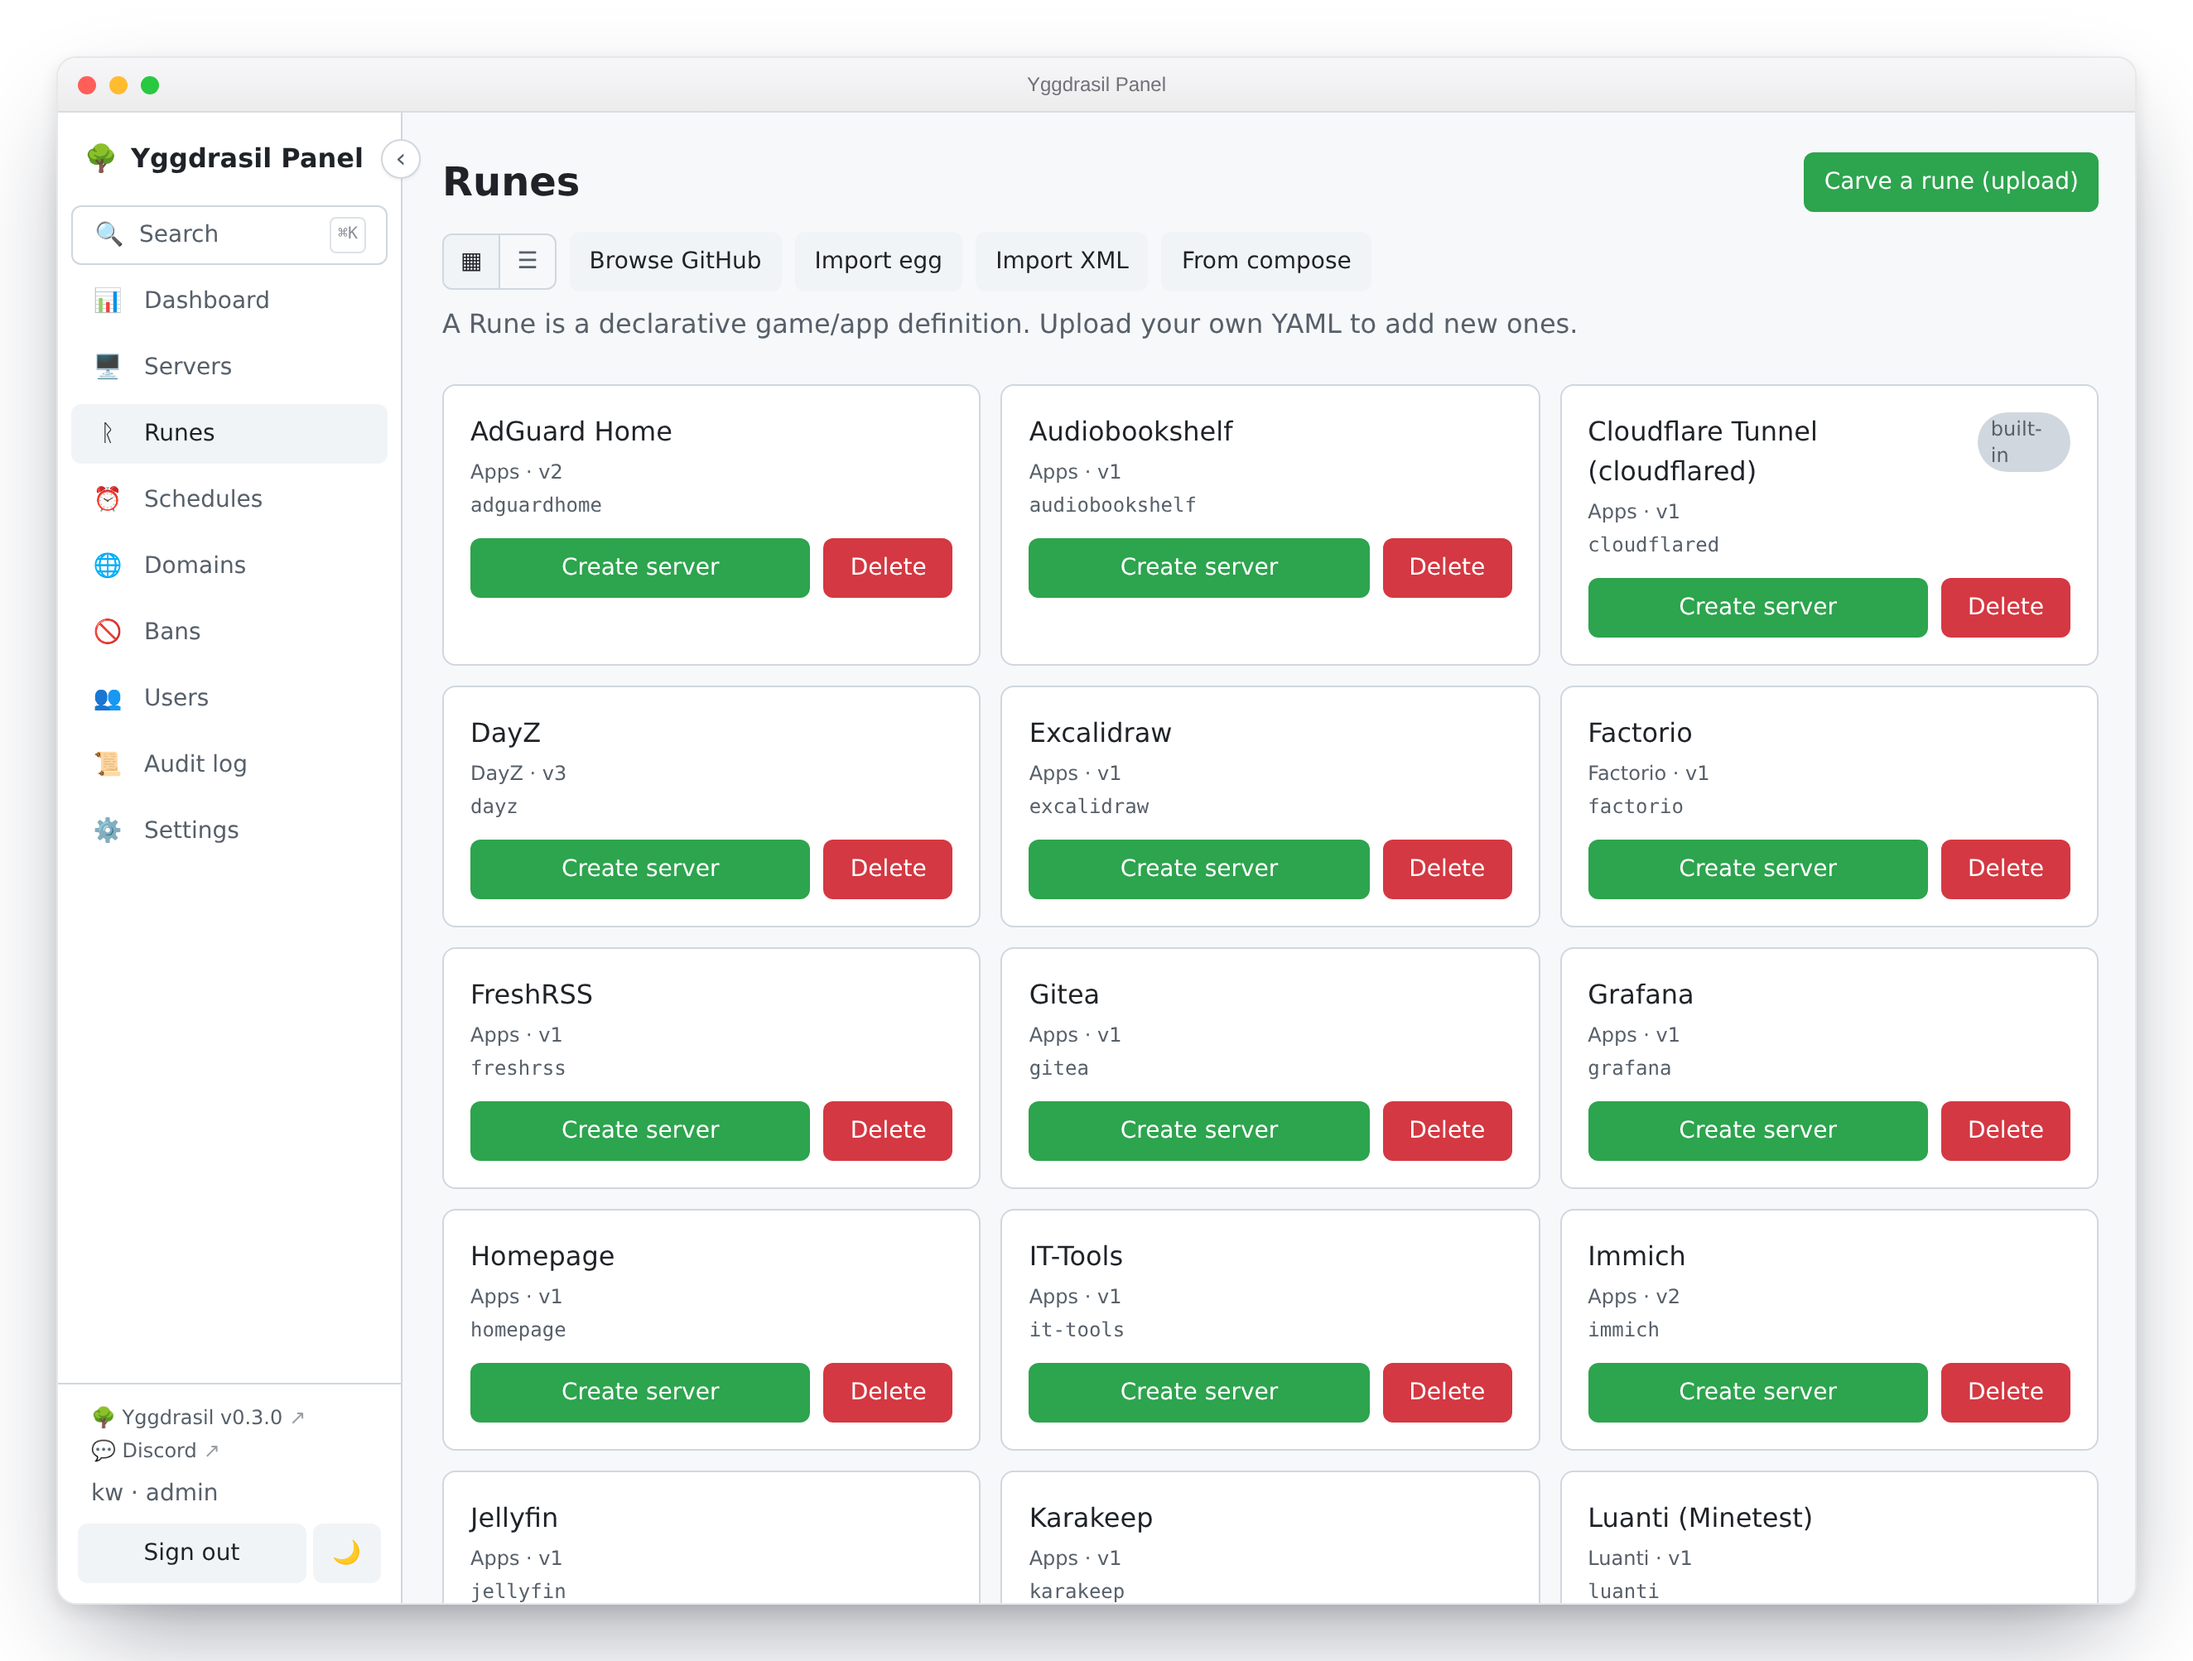
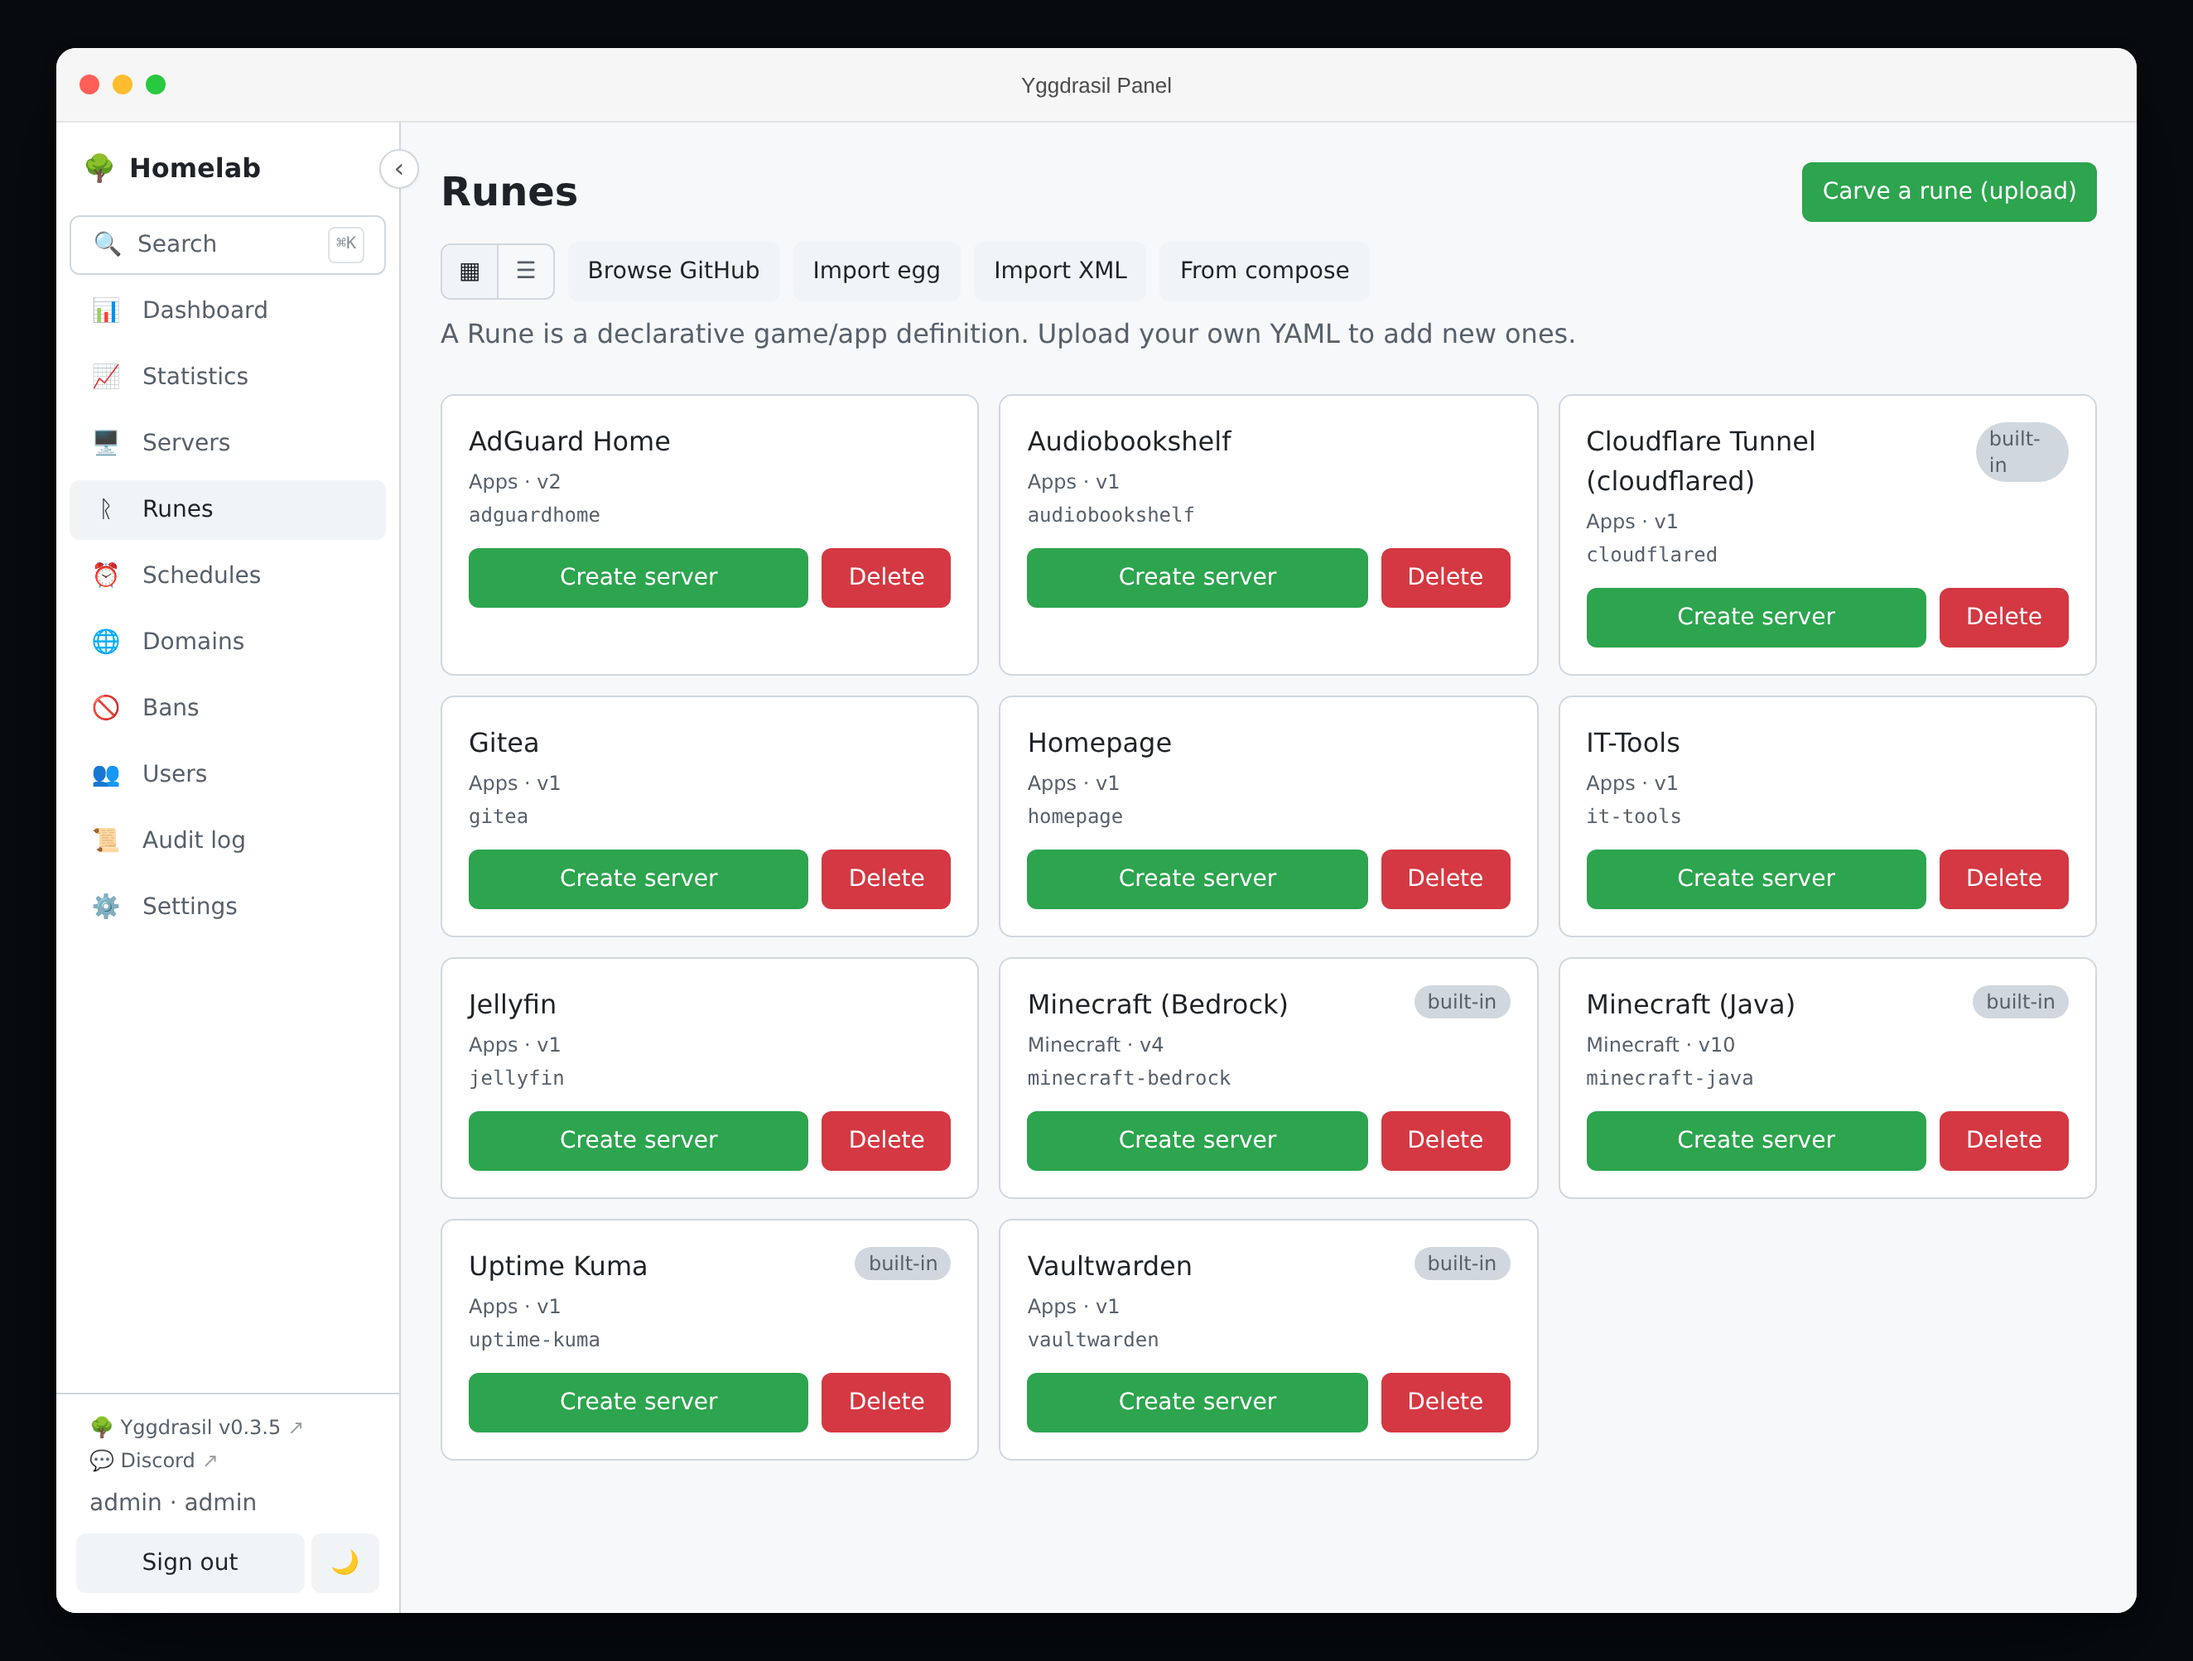
docs(site): fresh screenshots from v0.3.5, and features that match it
The set on the site was taken at v0.3.0 and showed neither Statistics nor
anything added since. Retaken from a throwaway v0.3.5 instance seeded with
a realistic homelab — three realms, ten servers, six running, a delegate
and two schedules — with the public hostname set to play.example.com so no
real address appears in any of them.

The Statistics shot makes the product's own argument better than the copy
does: 62 MB of server data against 54 GB of Docker images, on the same
disk, in the same chart.

One thing the seeding turned up that is worth knowing: a freshly installed
panel shows "not measured yet" for every server's disk for up to an hour,
because the sweep that measures data directories runs two minutes after
boot and then hourly — so on a new install it runs before any server
exists. Correct, and it looks broken. Not fixed here; it wants a sweep
after a server is installed, which is a behaviour change rather than a
screenshot.

Features updated to match: a card for the Statistics page, the networking
card now says several hostnames per server each at a chosen port across
several domains, and the security card carries the analytics field next to
the promise it qualifies.

Still v0.3.0: server-admin, server-console and runes-github. They need a
server detail page and a live console rather than a URL, so they are a
separate pass.

Changed region(s): [[0.0, 0.0, 1.0, 1.0], [0.7432, 0.8963, 0.8051, 0.9272], [0.7432, 0.7418, 0.7742, 0.7727]]

diff --git a/website/index.html b/website/index.html
@@ -201,9 +201,16 @@
       <div class="card"><div class="ic">🖥</div><h3>Real-time console &amp; stats</h3>
         <p>Live WebSocket console with command input, log streaming, per-server CPU/RAM limits and monitoring,
           and a clear installing → running → stopped lifecycle.</p></div>
+      <div class="card"><div class="ic">📈</div><h3>Where the disk actually went</h3>
+        <p>A Statistics page for the whole machine: CPU, memory and disk over time, your servers ranked
+          against each other on each — and the disk split into <b>server data versus Docker's own
+          storage</b>. On a panel that has been running a while those are wildly different numbers, and
+          the reclaimable ones come with a button.</p></div>
       <div class="card"><div class="ic">🌐</div><h3>Networking that just works</h3>
-        <p>Automatic port-forwarding (UPnP / UniFi), per-server subdomains via Nginx Proxy Manager or
-          Cloudflare Tunnel, an “online from outside” check, and connect addresses per server.</p></div>
+        <p>Automatic port-forwarding (UPnP / UniFi), public hostnames via Nginx Proxy Manager or
+          Cloudflare Tunnel — <b>several per server if you want, each pointed at the port you choose</b>,
+          across as many domains as your account owns — an “online from outside” check, and connect
+          addresses per server.</p></div>
       <div class="card"><div class="ic">💾</div><h3>Backups &amp; scheduler</h3>
         <p>Backups to local / SFTP / SMB with retention &amp; restore. Cron schedules for restarts, updates,
           backups, console commands and in-game warnings — with a run log.</p></div>
@@ -219,7 +226,10 @@
       <div class="card"><div class="ic">🔐</div><h3>Access &amp; security</h3>
         <p>Scoped multi-admin permissions, optional 2FA and passkeys, self-service password reset by email,
           API tokens, a full audit log. Log-pattern watchers flag brute-force and attack bursts and keep a
-          security-event history. Secrets encrypted at rest (AES-256-GCM); argon2id passwords.</p></div>
+          security-event history. Secrets encrypted at rest (AES-256-GCM); argon2id passwords.
+          The panel measures nothing about you — and if you want to measure your <i>own</i> install,
+          there is a field for your own analytics tag, with the security policy widened by exactly the
+          origins it needs.</p></div>
       <div class="card"><div class="ic">📥</div><h3>Migrate &amp; import</h3>
         <p>Bring what you already run. Import a WordPress site (All-in-One <code>.wpress</code>, or files
           + a database dump), a Pterodactyl egg, or a Docker Compose file turned into a rune. And move a
@@ -249,6 +259,7 @@
     <p class="sub">Installable PWA, light and dark themes, mobile-friendly — works as an app on iOS/Android.</p>
     <div class="shots">
       <figure><img src="screenshots/servers.png" alt="Servers" loading="lazy" /><figcaption>Servers — grid/table, reachability badges</figcaption></figure>
+      <figure><img src="screenshots/statistics.png" alt="Statistics" loading="lazy" /><figcaption>Statistics — where the machine's CPU, memory and disk actually go</figcaption></figure>
       <figure><img src="screenshots/server-admin.png" alt="A server's page" loading="lazy" /><figcaption>A server — safe restart, watchdog, wipe, and every rune setting as a form</figcaption></figure>
       <figure><img src="screenshots/runes.png" alt="Runes" loading="lazy" /><figcaption>Runes — one-click games &amp; apps</figcaption></figure>
       <figure><img src="screenshots/runes-github.png" alt="Browse runes on GitHub" loading="lazy" /><figcaption>Browse GitHub — install community runes in one click</figcaption></figure>
